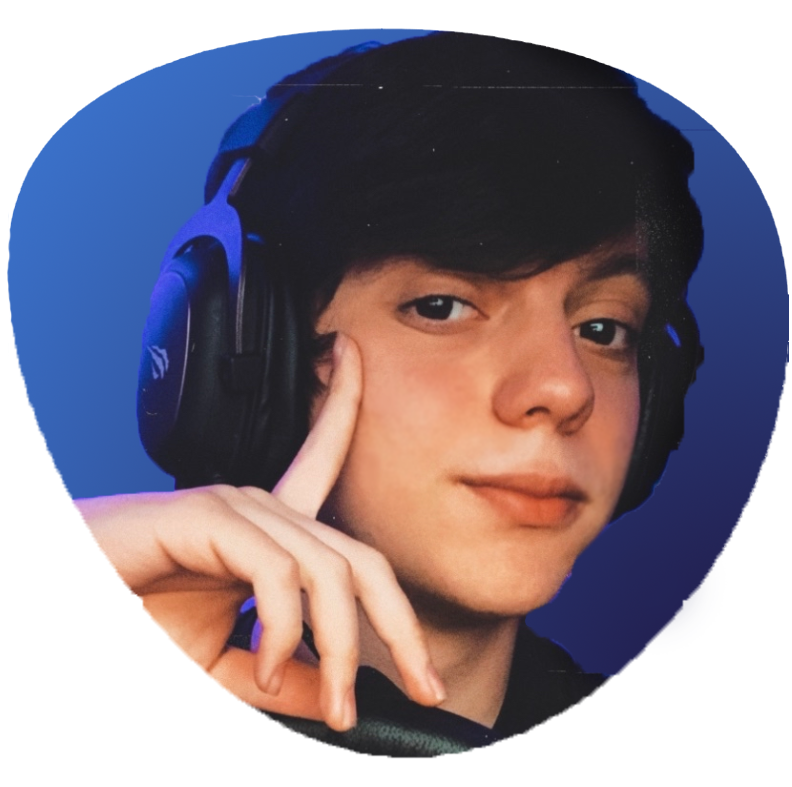
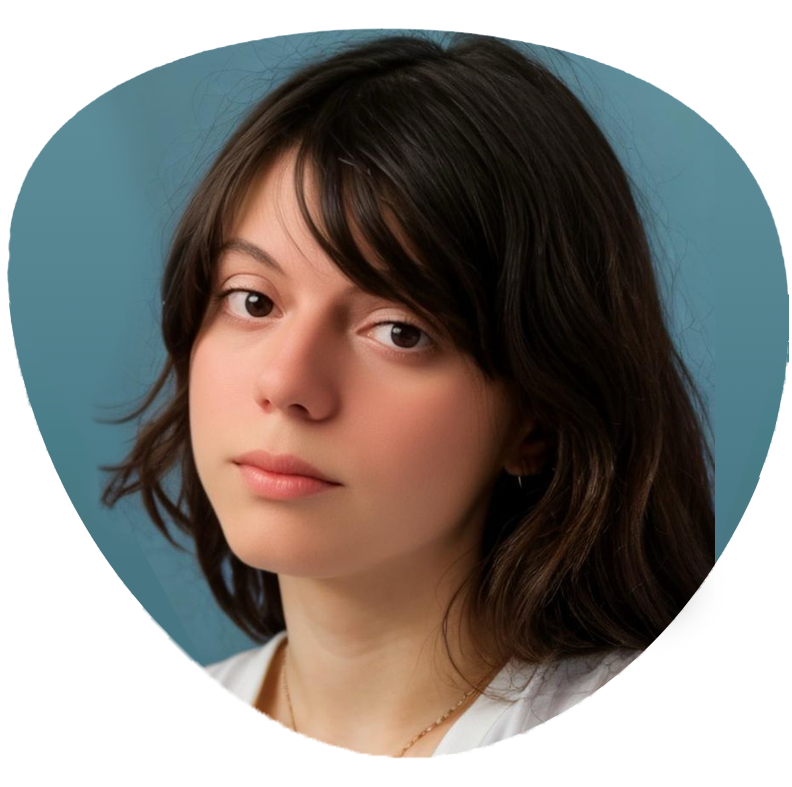
Updates

diff --git a/portal/index.html b/portal/index.html
@@ -33,10 +33,10 @@
         <div class="body">
             <span class="left2">
                 <h1>
-                    Hi, I'm Gabriel
+                    Hi, I'm Isabela
                 </h1>
                 <h3>
-                    Junior Front End Developer
+                    Software Developer
                 </h3>
                 <h4>
                     My passion for tech can be traced back to my pre-proffessional days. I have been on a tech path from the start. The reason? I love keeping up with technology, always creating and developing.

diff --git a/portal/indexPT.html b/portal/indexPT.html
@@ -32,7 +32,7 @@
     <div class="body">
         <span class="left2">
             <h2>
-                Oi, sou o Gabriel
+                Oi, sou a Isabela!
             </h2>
             <h3>
                 Desenvolvedor Júnior de Front End
